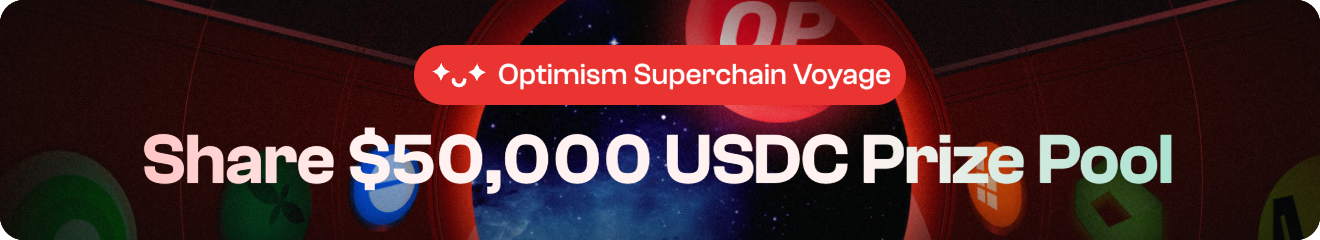
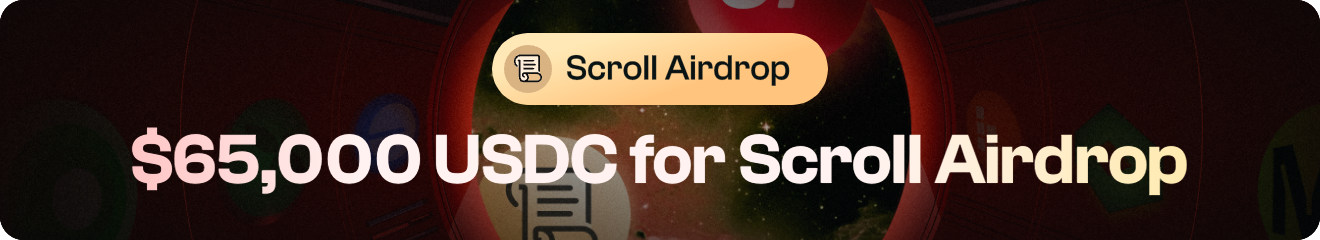
fix: lucky bag and prizes extends

diff --git a/src/views/prizes/components/PrizesRule.vue b/src/views/prizes/components/PrizesRule.vue
@@ -27,12 +27,12 @@ export default {
         {
           label: '1.Which networks are participating in this event?',
           text: [
-            '- <span class="orbiter_global_prizes_rule_tag">Bridge from specific networks to Optimism Superchain.</span>',
-            '- Optimism Superchain includes: Optimism, Base, Mode, Cyber, Bob, Mint, Kroma, Lisk',
+            '- Bridge from specific networks to Optimism Superchain.',
+            '- Optimism Superchain includes: Optimism, Base, Mode, Cyber, Bob, Mint, Kroma, Lisk, Zora',
             '- Specific Chains include: Ethereum, Arbitrum, linea,scroll,zkSync Lite, Polygon, Loopring, zkSyncEra, BNB Chain, Arbitrum Nova, Mantle, opBNB, X Layer, Manta, zkFair, Blast, zkLink Nova, Proof of Play Apex, BEVM, Core, Bitlayer, BounceBit, Optopia, AlienxChain, Fraxtal, Zircuit, Fuse',
-            '1.1 Which networks are added  in Extended Session?',
-            '- Bridge from specific networks to Scroll Chain or bridge from Scroll Chain to specific networks.',
-            '-Specific networks include: Ethereum, Arbitrum, linea,scroll,zkSync Lite, Polygon, Loopring, zkSyncEra, BNB Chain, Arbitrum Nova, Mantle, opBNB, X Layer, Zora, Manta, zkFair, Blast, zkLink Nova, Proof of Play Apex, BEVM, Core, Bitlayer, BounceBit, Optopia, AlienxChain, Fraxtal, Zircuit, Fuse, Optimism, Base, Mode, Cyber, Bob, Mint, Kroma, Lisk, Zora',
+            '<span class="orbiter_global_prizes_rule_tag">1.1 Which networks are added  in Extended Session?</span>',
+            '<span class="orbiter_global_prizes_rule_tag">- Bridge from specific networks to Scroll Chain or bridge from Scroll Chain to specific networks.</span>',
+            '-Specific networks include: Ethereum, Arbitrum, linea, zkSync Lite, Polygon, Loopring, zkSyncEra, BNB Chain, Arbitrum Nova, Mantle, opBNB, X Layer, Zora, Manta, zkFair, Blast, zkLink Nova, Proof of Play Apex, BEVM, Core, Bitlayer, BounceBit, Optopia, AlienxChain, Fraxtal, Zircuit, Fuse, Optimism, Base, Mode, Cyber, Bob, Mint, Kroma, Lisk',
             '- The minimum amount required: 0.03 ETH',
             '- Bridge token: ETH',
           ],
@@ -42,13 +42,13 @@ export default {
             '2.How to share the prize pool and extra bonus?',
           text: [
             '- Complete <span class="orbiter_global_prizes_rule_tag">≥3 transactions </span> to qualify for a share of the prize pool.',
-            '- <span class="orbiter_global_prizes_rule_tag">Prize Pool Breakdown:</span>',
+            '<span class="orbiter_global_prizes_rule_tag">- Prize Pool Breakdown:</span>',
             '&nbsp;&nbsp;&nbsp;&nbsp;&nbsp;&nbsp;&nbsp;- <span class="orbiter_global_prizes_rule_tag">≥3 TX Traders:</span> Share 40% of the prize pool.',
             '&nbsp;&nbsp;&nbsp;&nbsp;&nbsp;&nbsp;&nbsp;- <span class="orbiter_global_prizes_rule_tag">Top 9-100 Traders (with ≥20 TX):</span> Share 35% of the prize pool.',
             '&nbsp;&nbsp;&nbsp;&nbsp;&nbsp;&nbsp;&nbsp;- <span class="orbiter_global_prizes_rule_tag">Top 1-8 Traders (with ≥20 TX):</span> Share 25% of the prize pool.',
             '- The ranking is determined based on transactions. If users have the same number of transactions, ranking will be based on the transaction value. More transactions, greater chance to win!',
-            '- <span class="orbiter_global_prizes_rule_tag">Extra bonus: </span>',
-            '&nbsp;&nbsp;&nbsp;&nbsp;&nbsp;&nbsp;&nbsp;- <span class="orbiter_global_prizes_rule_tag">Rank in the top 5 fastest traders daily (Bridge at least 3000 TXs daily): </span> earn a 200 $USDC daily bonus.',
+            '<span class="orbiter_global_prizes_rule_tag">- Extra bonus: </span>',
+            '&nbsp;&nbsp;&nbsp;&nbsp;&nbsp;&nbsp;&nbsp;<span class="orbiter_global_prizes_rule_tag">- Rank in the top 5 fastest traders daily (Bridge at least 3000 TXs daily): </span> earn a 200 $USDC daily bonus.',
             '- In Tier 1 - Tier 5: An address can receive a maximum extra bonus of <span class="orbiter_global_prizes_rule_tag">3,000  $USDC</span>.',
             '- In Extended Session: An address can receive a maximum extra bonus of <span class="orbiter_global_prizes_rule_tag">1,600 $USDC</span>.',
             '- The ranking is determined based on transactions and daliy completed time. If users have the same number of transactions within the same time frame, ranking will be based on the transactions. More transactions, greater chance to win!',
@@ -65,10 +65,10 @@ export default {
             'In Tiers 1~5:',
             '- The prize pool will be unlocked when the amount of transactions (TX) ≥ 4,000;',
             '- TOP 1 to 8 users, up to 96% bridging fees (except for gas fees) will be rebated.',
-            'In Extended session: ',
-            '- TOP 1 users, 98% bridging fees (except for gas fees) will be rebated.',
-            '- TOP 2 to 8 users, 96% bridging fees (except for gas fees) will be rebated.',
-            '- Top 100 shares extend the $7000 prize pool.',
+            '<span class="orbiter_global_prizes_rule_tag">In Extended session: </span>',
+            '<span class="orbiter_global_prizes_rule_tag">- TOP 1 users, 98% bridging fees (except for gas fees) will be rebated.</span>',
+            '<span class="orbiter_global_prizes_rule_tag">- TOP 2 to 8 users, 96% bridging fees (except for gas fees) will be rebated.</span>',
+            '<span class="orbiter_global_prizes_rule_tag">- Top 100 shares extend the $7000 prize pool.</span>',
           ],
         },
         {

diff --git a/src/views/prizes/components/PrizesRank.vue b/src/views/prizes/components/PrizesRank.vue
@@ -52,7 +52,35 @@
             </div>
             <div class="bridge-fee">Extra Bonus</div>
             <div class="emit-reward">Estimated Earnings</div>
-            <div class="extend-reward">Extended Earnings</div>
+            <div class="extend-reward">Extended Earnings
+              <o-tooltip>
+                <template v-slot:titleDesc>
+                  <span style="margin-left: -20px">
+                    <span>
+                      The reward of "extended earnings" for the extended session will only be displayed if the transaction amount meets the specified threshold for the extended session.
+                    </span>
+                  </span>
+                </template>
+                <span class="tips">
+                  <svg
+                    xmlns="http://www.w3.org/2000/svg"
+                    width="24"
+                    height="24"
+                    viewBox="0 0 24 24"
+                    fill="none"
+                    stroke="currentColor"
+                    stroke-width="2"
+                    stroke-linecap="round"
+                    stroke-linejoin="round"
+                    class="lucide lucide-circle-help"
+                  >
+                    <circle cx="12" cy="12" r="10" />
+                    <path d="M9.09 9a3 3 0 0 1 5.83 1c0 2-3 3-3 3" />
+                    <path d="M12 17h.01" />
+                  </svg>
+                </span>
+              </o-tooltip>
+            </div>
             
           </div>
           <div
@@ -198,14 +226,14 @@ export default {
           isPromotion: tx > 250000,
         },
         {
-          tx: '≥480,000 Tx',
+          tx: '≥500,000 Tx',
           reward: '$42,000',
-          range: [480000, 9999999],
+          range: [500000, 9999999],
           bridge50Fee: 50,
-          bridge100Fee: 95,
+          bridge100Fee: 96,
           bridgeTop3Fee: 98,
           isColor: true,
-          isLock: tx < 480000,
+          isLock: tx < 500000,
           isPromotion: false,
         },
       ]
@@ -365,7 +393,7 @@ export default {
       const rank = Number(group?.rank) || 0
       const fee = this.currentPool
       let bridgeFee = 0
-      if (rank <= 3) {
+      if (rank <= 1) {
         bridgeFee = fee?.bridgeTop3Fee
       } else if (rank <= 8) {
         bridgeFee = fee?.bridge100Fee
@@ -550,8 +578,19 @@ export default {
       }
 
       .extend-reward {
+        display: flex;
+        justify-content: flex-end;
+        align-items: center;
         width: 15%;
         text-align: right;
+        .tips {
+          cursor: pointer;
+          margin-left: 2px;
+          svg {
+            width: 12px;
+            height: 12px;
+          }
+        }
       }
     }
 

diff --git a/src/components/layouts/LuckyModal.vue b/src/components/layouts/LuckyModal.vue
@@ -64,6 +64,7 @@
                     <div class="reward-amount" v-else-if="item.reward">
                       +<span>{{ item.reward }}</span> $USDC
                     </div>
+                    <!-- <div v-else-if="isEnd">Depleted</div> -->
                     <div v-else>({{ item.current }}/{{ item.target }})</div>
                   </div>
                 </div>
@@ -135,6 +136,7 @@ export default {
       laodingList: [0, 1, 2, 3],
       currentReward: 0,
       totalReward: 10000,
+      isEnd: false
     }
   },
   components: {
@@ -224,8 +226,8 @@ export default {
       const res = await response.json()
 
       this.list = res?.result?.resultList || []
-      this.total = Number(res?.result?.txsCount)
-      this.currentReward = Number(res?.result?.totalReward)
+      this.total = Number(res?.result?.txsCount || 0)
+      this.currentReward = Number(res?.result?.totalReward || 0)
     },
     decimalNumC(num, decimal, delimiter) {
       return decimalNum(num, decimal, delimiter)

diff --git a/src/views/prizes/components/PrizesAllocation.vue b/src/views/prizes/components/PrizesAllocation.vue
@@ -129,12 +129,12 @@
                       <span>
                         <span>Optimism Superchain include: </span>
                         <br />
-                        Optimism, Base, Mode, Cyber, Bob, Mint, Kroma, Lisk, Zora
+                        Optimism, Base, Mode, Cyber, Bob, Mint, Kroma, Lisk, Zora, Scroll
                       </span>
                     </span>
                   </template>
                   <span class="orbiter_global_prizes_tips_underline tip-text">
-                    Optimism Superchain
+                    Scroll/Optimism Superchain
                   </span>
                 </o-tooltip>
                 <!-- <span v-if="item.specificChain">from/to Scroll</span> -->

diff --git a/src/components/layouts/HeaderPrizesTimeOut.vue b/src/components/layouts/HeaderPrizesTimeOut.vue
@@ -1,6 +1,6 @@
 <template>
   <div class="time-out">
-    <div class="time-content">optimism superchain</div>
+    <div class="time-content">$65,000</div>
   </div>
 </template>
 
@@ -13,7 +13,7 @@ export default {
 
 <style scoped lang="scss">
 .time-out {
-  display: none;
+  display: flex;
   position: absolute;
   left: 50%;
   transform: translateX(-50%);
@@ -25,7 +25,11 @@ export default {
     font-size: 12px;
     border-radius: 999px;
     padding: 0px 8px;
-    scale: 0.8;
+    zoom: 0.87;
+    height: 16px;
+    display: flex;
+    justify-content: center;
+    align-items: center;
     //color: #0a1313;
     color: #FFFFFF;
   }

diff --git a/src/views/prizes/components/PrizesPool.vue b/src/views/prizes/components/PrizesPool.vue
@@ -140,14 +140,14 @@ export default {
           isPromotion: tx > 250000,
         },
         {
-          tx: '≥480,000 Tx',
+          tx: '≥500,000 Tx',
           reward: '$42,000',
-          range: [480000, 9999999],
+          range: [500000, 9999999],
           bridge50Fee: 50,
-          bridge100Fee: 95,
+          bridge100Fee: 96,
           bridgeTop3Fee: 98,
           isColor: true,
-          isLock: tx<480000,
+          isLock: tx<500000,
           isPromotion: false,
         },
       ]

diff --git a/src/components/layouts/HeaderLinks.vue b/src/components/layouts/HeaderLinks.vue
@@ -26,7 +26,7 @@
       >
         {{ nav.name }}
         <SvgIconThemed v-if="!verical && !isMobile && nav.children == 0" />
-        <HeaderPrizesTimeOut v-if="nav.name === 'Prizes'"></HeaderPrizesTimeOut>
+        <HeaderPrizesTimeOut v-if="nav.href === '/prizes'"></HeaderPrizesTimeOut>
       </div>
       <template v-if="isMobile && nav.children && nav.children.length">
         <div

diff --git a/src/views/prizes/components/DayCheckInTaskList.vue b/src/views/prizes/components/DayCheckInTaskList.vue
@@ -331,7 +331,7 @@ export default {
           lastText: '',
           isU: true,
           opoints: 420,
-          total: 15,
+          total: 23,
           current: achieveTotal,
         },
       ]
